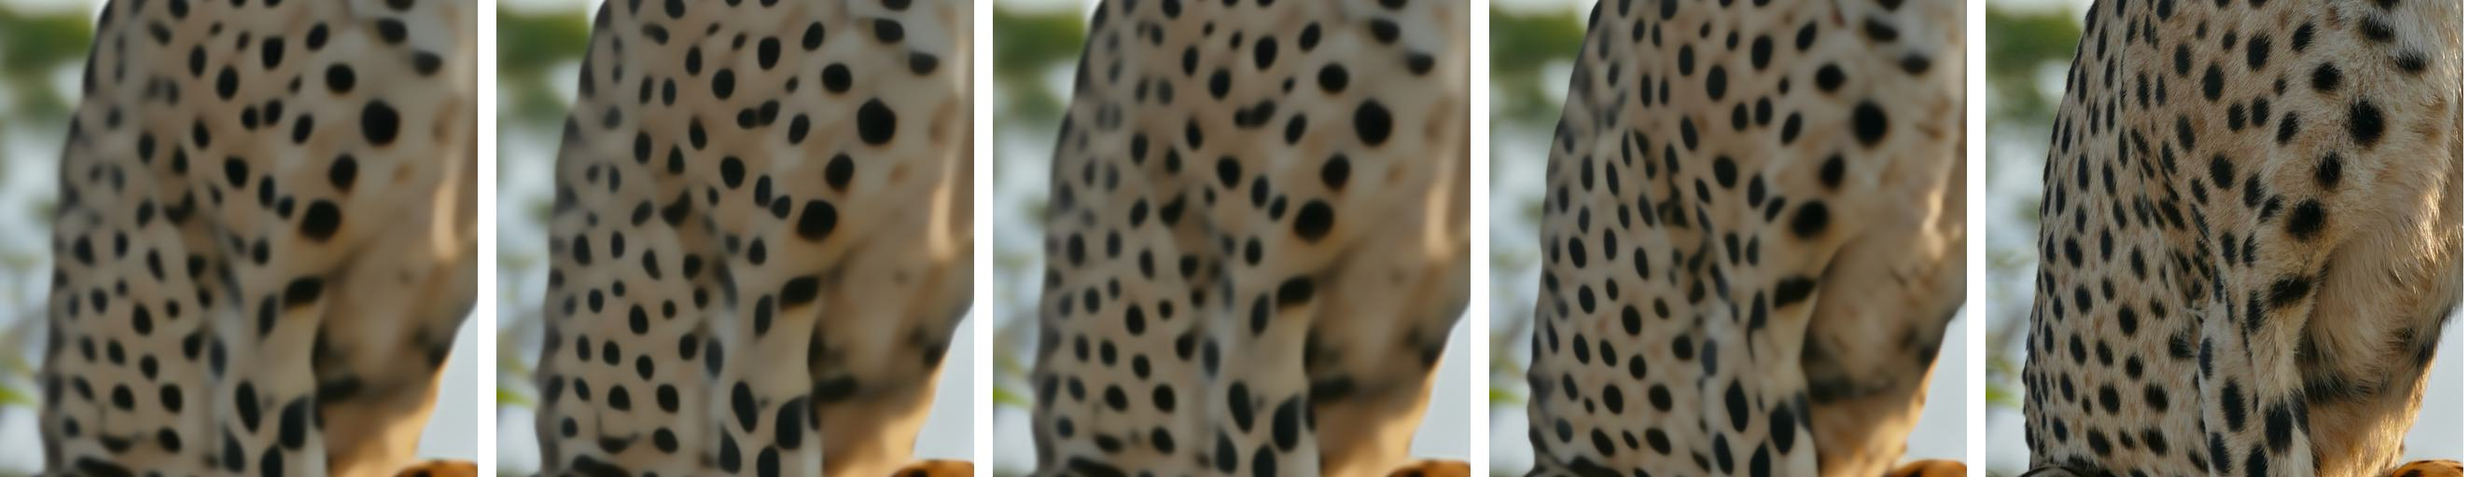
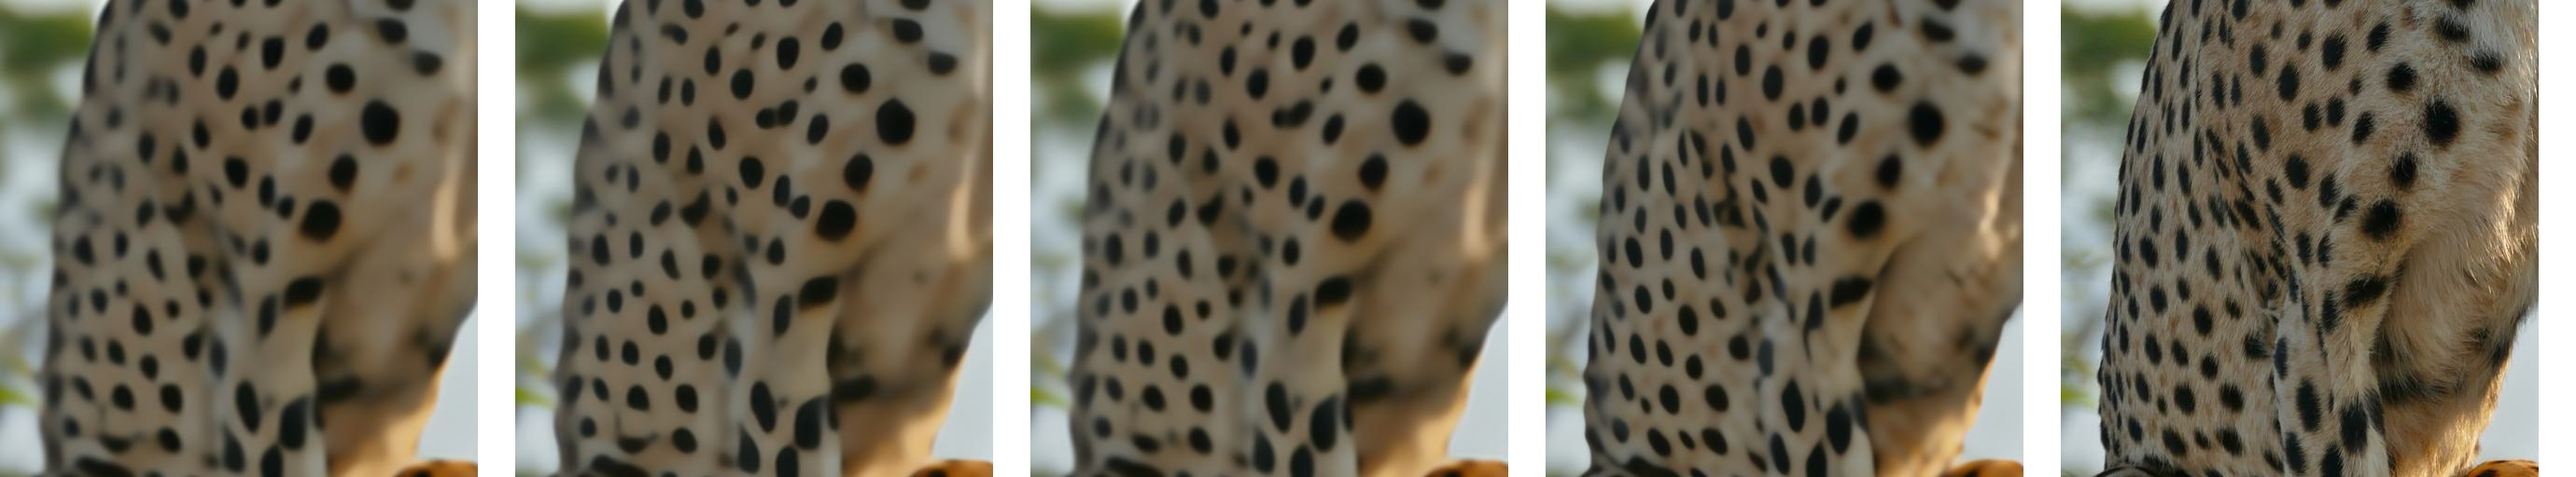
modify space

diff --git a/liif/scripts/merge_images_into_one.py b/liif/scripts/merge_images_into_one.py
@@ -18,7 +18,7 @@ def merge_images(image_folder):
 
     max_images_per_row = 5
     num_rows = (num_images + max_images_per_row - 1) // max_images_per_row
-    spacing = 20  # Adjust this value to control the spacing between images
+    spacing = 40  # Adjust this value to control the spacing between images
 
     max_width = max_images_per_row * (max(img.width for _, img in images) + spacing)
     max_height = num_rows * (max(img.height for _, img in images))
